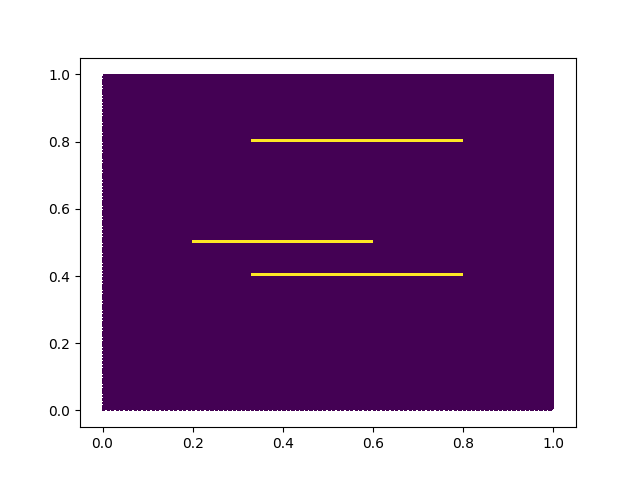
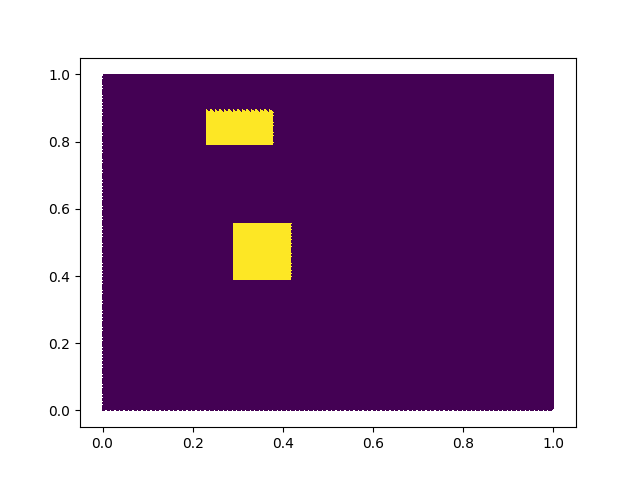
plot_approx interpolation operation is not working yet

Changed region(s): [[0.3125, 0.4375, 0.7188, 0.5938], [0.3125, 0.2188, 0.7188, 0.3125]]

diff --git a/visualizer.py b/visualizer.py
@@ -12,7 +12,8 @@ import numpy as np
 import os
 
 
-data_path = "./data/output_seed1/"
+# data_path = "./data/output_seed1/"
+data_path = "./output_seed0/"
 
 
 def plot_mesh(mesh):
@@ -22,14 +23,35 @@ def plot_mesh(mesh):
     plt.show()
 
 
-def plot_function(function, mesh):
-    # x, y = SpatialCoordinate(mesh)
-    # function.interpolate(x + y)
+def plot_function(function):
     fig, axes = plt.subplots()
-    # levels = np.linspace(0, 1, 51)
     contours = tricontourf(function, axes=axes, cmap="inferno")
     axes.set_aspect("equal")
     fig.colorbar(contours)
+    plt.show()
+
+
+def plot_approx(function, mesh):
+    fig, axes = plt.subplots()
+
+    num_x, num_y = 50, 50
+    x = np.arange(0 + 0.5 / num_x, 1.0, 1.0 / num_x)
+    y = np.arange(0 + 0.5 / num_y, 1.0, 1.0 / num_y)
+    X, Y = np.meshgrid(x, y)
+    XY = np.array([X.flatten(), Y.flatten()]).T
+
+    print(XY.shape)
+
+    # print("Mesh dat", mesh.dat)
+
+    mesh_eval = VertexOnlyMesh(mesh, XY)
+    p0dg = FunctionSpace(mesh_eval, "DG", 0)
+
+    f = assemble(Interpolate(function, p0dg)).dat.data_ro
+
+    cmesh = plt.pcolormesh(np.reshape(f, (num_x, num_y)), cmap="inferno")
+    axes.set_aspect("equal")
+    fig.colorbar(cmesh)
     plt.show()
 
 
@@ -42,6 +64,10 @@ def main():
 
     # for file_name in [data_path + "results-90.h5"]:
     for file_name in filenames:
+        num = int(file_name[len(data_path) + len("results-") :].split(".")[0])
+
+        if num % 20 != 19:
+            continue
 
         print("Looking at", file_name, ":")
 
@@ -50,12 +76,18 @@ def main():
             rho = afile.load_function(mesh, "rho")
             rhof = afile.load_function(mesh, "rhof")
             up = afile.load_function(mesh, "up")
+            t_total = afile.load_function(mesh, "t_total")
 
-            print(" Num subfunctions", len(up.subfunctions))
             vel, press = up.sub(0), up.sub(1)
+            channel_t, substrate_t = t_total.sub(0), t_total.sub(1)
+
+            # function space dim
+
+            # .data
 
             # plot_mesh(mesh)
-            plot_function(press, mesh)
+            # plot_function(press)
+            plot_approx(press, mesh)
 
 
 if __name__ == "__main__":

diff --git a/stokes.py b/stokes.py
@@ -19,8 +19,8 @@ from helpers import (
 from pyMMAopt import ReducedInequality, MMASolver
 
 
-pvd_frequency = 5
-hdf5_frequency = 0
+pvd_frequency = 1000
+hdf5_frequency = 1
 
 # --- 0. Parameters Initialisation ---
 # 0.1 Mesh and scales
@@ -396,6 +396,8 @@ Klimit = fd.assemble(fd.Constant(1.0) * fd.dx(mesh)) * 2.0
 Kcontrol = fda.Control(K)
 Khat = fda.ReducedFunctional(K, c)
 
+global_i_record = []
+
 # 6.4 Continuation loop
 for i in range(STAGES):
     ramp_p_thermal.interpolate(fd.Constant(ramp_p_thermal_values[i]))
@@ -415,3 +417,7 @@ for i in range(STAGES):
     rho_opt = results["control"]
     with stop_annotating():
         rho.assign(rho_opt)
+
+    global_i_record.append(global_i)
+
+print("Global i", global_i_record)
